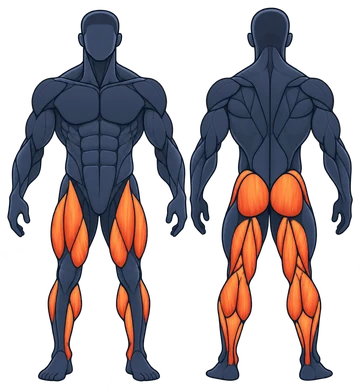
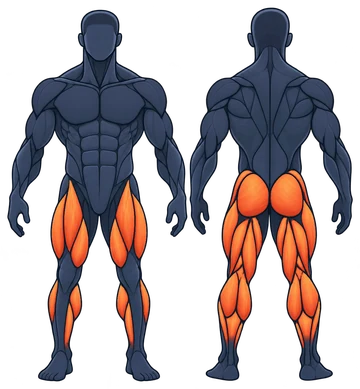
Day figures: two rounds of anatomy and rendering review
- The strip down the side of the torso is the lat seen from the front
  (Pull, Upper), not serratus; the teres lens under the rear delt joins the
  rotator cuff; the outer back thigh counts as quads on Legs.
- Calves stop where they narrow into the Achilles and ankle tendons, fading
  through deep red instead of running onto the heel.
- Fibres follow the muscle: trapezius from spine to shoulder, gluteus maximus
  down and out, abs and erectors vertical (and the streak rotation no longer
  comes out mirrored); the artist's own shading carries through.
- Edges stay crisp: no navy specks at outline junctions, no brown rims, no
  dotted seam where the biceps meets the triceps, no warm fringe left where
  Push's orange was removed. The nape groove and the shadowed groin slivers
  stay navy.

Claude-Session: https://claude.ai/code/session_01FVnPUDYaPCRVKb2WTVKYVF

diff --git a/design/day-figures/derive.py b/design/day-figures/derive.py
@@ -21,9 +21,12 @@ drawing with that day's muscles painted instead, so all the figures are one piec
   4. A day. Its panels are painted orange on the blank figure. A panel Push already painted keeps
      the supplied pixels exactly. Any other is shaded as the supplied orange panels are (a fit to
      them: lightest in the middle and towards the top, darker at the lower edge, with fine fibre
-     streaks along the panel's long axis), mapped through the supplied orange's own colours. The
-     outline is kept: an edge pixel mixes the outline colour and the new fill in the proportion the
-     original mixed outline and navy.
+     streaks along the panel's long axis, and the artist's own shading of the navy panel carried
+     through), mapped through the supplied orange's own colours. The outline is kept: an edge
+     pixel mixes the outline colour and the new fill in the proportion the original mixed outline
+     and navy, weighted towards the outline so the edge stays crisp. A faint stroke inside a panel
+     darkens the orange instead of cutting it, and a few-pixel navy speck left where outlines meet
+     takes the outline colour.
 
 Nothing is generated or traced from anywhere else; a day shows exactly the panels listed for it.
 Needs Pillow, numpy and scipy.
@@ -46,6 +49,7 @@ GAP = 2
 EDGE = 2
 MIN_PANEL = 60
 OUTLINE_RGB = np.array([8.0, 18.0, 33.0])
+MASTER_WIDTH = 1254
 
 # Points (x, y) on the 1254 x 1254 master inside each muscle's panels: the front figure is left of
 # x = 627, the back figure right of it. Left and right sides are listed separately.
@@ -58,16 +62,23 @@ MUSCLES: dict[str, list[tuple[int, int]]] = {
     "biceps": [(207, 383), (520, 383)],
     "forearms (front)": [(131, 503), (166, 535), (172, 486), (106, 547), (132, 583), (595, 502), (567, 535), (555, 487), (598, 584), (620, 549)],
     "rectus abdominis": [(333, 401), (396, 401), (336, 445), (393, 445), (341, 491), (394, 491), (367, 578)],
-    "serratus anterior": [(286, 454), (441, 454), (257, 392), (472, 392), (256, 415), (472, 415), (240, 406), (487, 407)],
+    "serratus anterior": [(286, 454), (441, 454), (257, 392), (472, 392), (256, 415), (472, 415)],
+    # The narrow strip down the side of the torso from the armpit, outside the serratus.
+    "latissimus dorsi (front)": [(240, 406), (487, 407)],
     "external obliques (front)": [(286, 527), (449, 527)],
-    "hip flexors and adductors": [(259, 580), (475, 580), (319, 596), (307, 609), (414, 595), (428, 605), (328, 667), (348, 694), (407, 667), (387, 705)],
+    # The tensor fasciae latae on the outer hip and the long adductor strips of the inner thigh.
+    # The four slivers at the groin are in deep shadow and too small to paint cleanly.
+    "hip flexors and adductors": [(259, 580), (475, 580), (328, 667), (348, 694), (407, 667), (387, 705)],
     "quadriceps": [(283, 676), (241, 714), (309, 768), (451, 676), (493, 714), (425, 768)],
     "calves (front)": [(223, 937), (295, 938), (271, 1027), (510, 936), (439, 938), (462, 1027)],
     # Back figure
-    "trapezius": [(861, 251), (923, 251), (892, 186), (810, 255), (981, 255)],
-    "mid and lower trapezius": [(860, 364), (931, 364)],
+    # Both halves and the small pieces at the shoulder; the groove at the nape between them stays a recess.
+    "trapezius": [(861, 251), (923, 251), (810, 255), (981, 255)],
+    "lower trapezius": [(860, 364), (931, 364)],
     "rear deltoid": [(745, 285), (1045, 285)],
-    "rotator cuff and teres": [(828, 300), (963, 300), (798, 300), (993, 300), (795, 339), (996, 339)],
+    # Infraspinatus and teres over the shoulder blade, and the teres lens under the rear deltoid
+    # that Push leaves navy (neither deltoid nor triceps).
+    "rotator cuff and teres": [(828, 300), (963, 300), (798, 300), (993, 300), (795, 339), (996, 339), (739, 325), (1048, 325)],
     "latissimus dorsi": [(820, 420), (971, 420)],
     "erector spinae": [(872, 500), (917, 500)],
     "external obliques (back)": [(815, 504), (982, 505)],
@@ -75,27 +86,45 @@ MUSCLES: dict[str, list[tuple[int, int]]] = {
     "forearms (back)": [(669, 486), (685, 580), (1124, 487), (1114, 583)],
     "gluteus medius": [(801, 567), (991, 566)],
     "gluteus maximus": [(845, 611), (951, 611)],
+    # The outer thigh from behind: vastus lateralis under the iliotibial band.
+    "quadriceps (back)": [(769, 707), (1015, 706)],
     "hamstrings": [(799, 754), (835, 790), (859, 729), (802, 821), (995, 754), (959, 790), (934, 729), (991, 822)],
     "calves (back)": [(773, 921), (816, 925), (782, 1036), (754, 1010), (790, 1061), (976, 934), (1017, 915), (1010, 1036), (1038, 1010), (990, 1040)],
 }
 
-# The back forearm's panel runs on into the hand with no line at the wrist: it stops at the wrist.
+# The back forearm's panel runs on into the hand: it stops at the wrist, fading over FADE px.
 LIMITS: dict[str, int] = {"forearms (back)": 612}
+FADE = 6
+# A calf panel that narrows into the Achilles or an ankle tendon (runs on TAPER_TAIL px or more
+# past where it is half as wide as at its widest) stops there, fading over TAPER_FADE px. A
+# teardrop head that ends at its own outline is left whole.
+TAPERED = {"calves (back)", "calves (front)"}
+TAPER_WIDTH = 0.5
+TAPER_TAIL = 20
+TAPER_FADE = 28
 
-# What the supplied Push master paints, so a check can confirm the panels are read correctly.
+# Fibre direction where the panel's long axis is not it, for the figure's left-hand panels
+# (mirrored on the right): the trapezius runs from the spine out to the shoulder, the gluteus
+# maximus down and out from the sacrum, the rectus abdominis and erectors straight up and down.
+FIBRES: dict[str, tuple[float, float]] = {"trapezius": (-1.0, 0.45), "gluteus maximus": (-0.82, 0.57), "rectus abdominis": (0.0, 1.0), "erector spinae": (0.0, 1.0)}
+# Each figure's midline on the master, for mirroring.
+MIDLINES = (363, 892)
+
+# What the supplied Push master paints: these panels keep the supplied pixels on any day that shows
+# them, and the blank figure repaints them navy.
 PUSH = ["front deltoid", "pectorals", "triceps (front)", "rear deltoid", "triceps (back)"]
 
 # Each day's muscles, from the words in client/src/lib/dayFigures.ts.
 DAYS: dict[str, list[str]] = {
     # Lats · traps and mid-back · rear delts · biceps
-    "pull": ["latissimus dorsi", "trapezius", "upper trapezius (front)", "mid and lower trapezius", "rotator cuff and teres", "rear deltoid", "biceps"],
+    "pull": ["latissimus dorsi", "latissimus dorsi (front)", "trapezius", "upper trapezius (front)", "lower trapezius", "rotator cuff and teres", "rear deltoid", "biceps"],
     # Quads · glutes · hamstrings · calves
     # (Lower trains these too, and Home shows it this figure.)
-    "legs": ["quadriceps", "gluteus maximus", "gluteus medius", "hamstrings", "calves (front)", "calves (back)"],
+    "legs": ["quadriceps", "quadriceps (back)", "gluteus maximus", "gluteus medius", "hamstrings", "calves (front)", "calves (back)"],
     # Chest · shoulders · arms · upper back · abs
-    "upper": ["pectorals", "front deltoid", "rear deltoid", "triceps (front)", "triceps (back)", "biceps", "trapezius", "upper trapezius (front)", "mid and lower trapezius", "rotator cuff and teres", "latissimus dorsi", "rectus abdominis"],
+    "upper": ["pectorals", "front deltoid", "rear deltoid", "triceps (front)", "triceps (back)", "biceps", "trapezius", "upper trapezius (front)", "lower trapezius", "rotator cuff and teres", "latissimus dorsi", "latissimus dorsi (front)", "rectus abdominis"],
     # Obliques and core · hips · glutes · posterior chain · shoulder stabilisation
-    "sport-transfer": ["external obliques (front)", "external obliques (back)", "rectus abdominis", "hip flexors and adductors", "gluteus medius", "gluteus maximus", "erector spinae", "hamstrings", "rotator cuff and teres", "mid and lower trapezius", "serratus anterior"],
+    "sport-transfer": ["external obliques (front)", "external obliques (back)", "rectus abdominis", "hip flexors and adductors", "gluteus medius", "gluteus maximus", "erector spinae", "hamstrings", "rotator cuff and teres", "lower trapezius", "serratus anterior"],
     # Chest · back · shoulders · arms · core · legs: every listed muscle but the forearms
     "full-body": [name for name in MUSCLES if not name.startswith("forearms")],
 }
@@ -131,6 +160,7 @@ class Figure:
         self.full = np.where(alpha > 0, lab[iy, ix], 0)
         self.band = (alpha > 0) & (distance <= GAP + EDGE)
         self.panels = {name: self.panels_at(name, points) for name, points in MUSCLES.items()}
+        self.supplied = {panel for name in PUSH for panel in self.panels[name]}
         self.ramps()
 
     def panels_at(self, name: str, points: list[tuple[int, int]]) -> set[int]:
@@ -178,17 +208,20 @@ class Figure:
         return depth, height[:, None] * np.ones((1, core.shape[1]))
 
     @staticmethod
-    def fibres(core: np.ndarray, seed: int) -> np.ndarray:
-        """Streaks along the panel's long axis, unit spread, over the given window."""
-        ys, xs = np.where(core)
-        cov = np.cov(np.vstack([xs, ys]))
-        vals, vecs = np.linalg.eigh(cov)
-        angle = np.degrees(np.arctan2(vecs[1, 1], vecs[0, 1]))
+    def fibres(core: np.ndarray, seed: int, direction: tuple[float, float] | None = None) -> np.ndarray:
+        """Fine streaks along the panel's long axis (or the given direction), unit spread, over the
+        given window."""
+        if direction is None:
+            ys, xs = np.where(core)
+            vals, vecs = np.linalg.eigh(np.cov(np.vstack([xs, ys])))
+            direction = (vecs[0, 1], vecs[1, 1])
+        angle = np.degrees(np.arctan2(direction[1], direction[0]))
         h, w = core.shape
         size = int(np.hypot(h, w)) + 8
         noise = np.random.default_rng(seed).standard_normal((size, size))
-        streaks = ndi.gaussian_filter(noise, sigma=(1.0, 14.0))
-        streaks = ndi.rotate(streaks, angle, reshape=False, order=1)
+        streaks = ndi.gaussian_filter(noise, sigma=(0.7, 10.0))
+        # The angle is measured with y pointing down; ndi.rotate turns counter-clockwise on screen.
+        streaks = ndi.rotate(streaks, -angle, reshape=False, order=1)
         top, left = (size - h) // 2, (size - w) // 2
         out = streaks[top:top + h, left:left + w]
         return out / max(out[core].std(), 1e-6)
@@ -199,12 +232,17 @@ class Figure:
         for name in PUSH:
             for panel in self.panels[name]:
                 self.paint(out, panel, navy=True)
-        # Orange anti-aliasing left on the silhouette's soft edge takes the outline colour.
-        stray = (out[..., 0] > out[..., 2] + 30) & (self.full > 0)
-        out[..., :3][stray] = OUTLINE_RGB
+        # Warm anti-aliasing left around Push's panels: on an outline or the silhouette's soft edge
+        # it takes the outline colour; between two panels (the front triceps and biceps, where
+        # there was no line) it takes a shaded navy, so no dotted seam is left.
+        near = ndi.binary_dilation(np.isin(self.full, list(self.supplied)), structure=disk(4))
+        stray = near & (out[..., 0] > out[..., 2] + 3) & (self.full > 0)
+        edge = stray & ((self.rgba[..., 3] < 250) | (self.lum < 45))
+        out[..., :3][edge] = OUTLINE_RGB
+        out[..., :3][stray & ~edge] = self.navy_ramp(np.full((stray & ~edge).sum(), 52.0))
         return out
 
-    def paint(self, out: np.ndarray, panel: int, navy: bool = False, seed: int = 0, max_y: int | None = None) -> None:
+    def paint(self, out: np.ndarray, panel: int, navy: bool = False, seed: int = 0, max_y: int | None = None, fade: int = FADE, direction: tuple[float, float] | None = None, beside_supplied: np.ndarray | None = None) -> None:
         owned = (self.full == panel) & self.band
         if max_y is not None:
             owned[max_y + 1:] = False
@@ -215,10 +253,14 @@ class Figure:
         depth, height = self.geometry(core)
         if navy:
             smooth = ndi.gaussian_filter(np.where(core, src, fill), 3)
-            target = 66 + 6 - 14 * height + 0.25 * (src - smooth)
+            target = 66 + 6 - 14 * height + 6 * (np.sqrt(depth) - 0.5) + 0.25 * (src - smooth)
             ramp = self.navy_ramp
         else:
-            base = -3 + 42 * np.sqrt(depth) - 48 * height + 4 * self.fibres(core, seed)
+            # The artist's own shading of the navy panel carries through, so a shadow (under the
+            # glutes, behind the knee) stays a shadow.
+            smooth = ndi.gaussian_filter(np.where(core, src, fill), 4)
+            drawn = 1.2 * (smooth - fill) + 0.6 * (src - smooth)
+            base = -3 + 42 * np.sqrt(depth) - 48 * height + drawn + 2.5 * self.fibres(core, seed, direction)
             # Spread as the supplied orange is spread: rank within the panel, then the orange's levels.
             ranks = np.argsort(np.argsort(base[core]))
             q = (ranks + 0.5) / len(ranks)
@@ -234,22 +276,122 @@ class Figure:
         ny = np.clip(iy[gy, gx] - box[0].start, 0, core.shape[0] - 1)
         nx = np.clip(ix[gy, gx] - box[1].start, 0, core.shape[1] - 1)
         lum = target[ny, nx]
+        keep = None
+        if max_y is not None:
+            # Over the last `fade` rows the orange deepens and then gives way to what was there.
+            keep = np.clip((max_y - gy) / fade, 0, 1)
+            lum = lum * (0.7 + 0.3 * keep)
         dark = OUTLINE_LUMINANCE * 0.6
         mix = np.clip((self.lum[gy, gx] - dark) / max(fill - dark, 1), 0, 1)
-        mix[core[rows, cols]] = 1.0
-        out[gy, gx, :3] = OUTLINE_RGB * (1 - mix[:, None]) + ramp(lum) * mix[:, None]
+        rim = ~core[rows, cols]
+        # Weighted towards the outline, so a rim reads as a crisp dark edge rather than a brown fringe.
+        mix = mix ** 1.6
+        mix[~rim] = 1.0
+        if not navy:
+            # A faint stroke inside the panel (no other panel or background within 9 px, more
+            # than a drawn line between two panels is wide) is the artist's shading, not a
+            # boundary: it darkens the orange rather than cutting it.
+            reach = 9
+            window = (slice(max(box[0].start - reach, 0), box[0].stop + reach), slice(max(box[1].start - reach, 0), box[1].stop + reach))
+            other = ((self.core[window] > 0) & (self.core[window] != panel)) | (self.rgba[window][..., 3] == 0)
+            other = ndi.binary_dilation(other, structure=disk(reach))
+            stroke = rim & ~other[gy - window[0].start, gx - window[1].start] & (self.lum[gy, gx] >= 24)
+            mix[stroke] = np.maximum(mix[stroke], 0.6)
+        if navy:
+            painted = OUTLINE_RGB * (1 - mix[:, None]) + ramp(lum) * mix[:, None]
+        else:
+            # Towards the outline the orange deepens to red before it meets the line, as the
+            # supplied panels' edges do, rather than greying through a straight mix.
+            painted = OUTLINE_RGB * (1 - mix[:, None]) + ramp(lum * (0.55 + 0.45 * mix)) * mix[:, None]
+        if not navy:
+            # Where the original drew no line, only Push's orange meeting navy (the front triceps
+            # and biceps): beside a supplied panel shown today the seam is the supplied pixels, as
+            # drawn; beside a navy one it stays the blank figure's.
+            src_rgb = self.rgba[gy, gx, :3]
+            seam = rim & (src_rgb[:, 0] > src_rgb[:, 2] + 10)
+            if beside_supplied is not None:
+                # Both sides orange, and no line drawn between them: the fill runs on up to the
+                # supplied panel, as Push's own orange panels meet.
+                shown = rim & beside_supplied[gy, gx] & (self.lum[gy, gx] >= 30)
+                painted[shown] = ramp(lum[shown])
+                seam &= ~beside_supplied[gy, gx]
+            painted[seam] = out[gy[seam], gx[seam], :3]
+        if keep is not None:
+            painted = out[gy, gx, :3] * (1 - keep[:, None]) + painted * keep[:, None]
+        out[gy, gx, :3] = painted
 
     def day(self, muscles: list[str], blank: np.ndarray) -> np.ndarray:
         out = blank.copy()
-        supplied = {panel for name in PUSH for panel in self.panels[name]}
+        supplied = self.supplied
+        shown = {panel for name in muscles for panel in self.panels[name] & supplied}
+        beside_supplied = ndi.binary_dilation(np.isin(self.full, list(shown)), structure=disk(3)) if shown else None
         # The supplied panels first, exactly as drawn, so a painted neighbour's rim is laid over them.
         for name in muscles:
             for panel in sorted(self.panels[name] & supplied):
                 owned = self.full == panel
                 out[owned] = self.rgba[owned]
+        painted_cores = np.zeros(self.core.shape, bool)
         for name in muscles:
             for panel in sorted(self.panels[name] - supplied):
-                self.paint(out, panel, seed=panel, max_y=LIMITS.get(name))
+                painted_cores |= self.core == panel
+                end = LIMITS.get(name)
+                fade = FADE
+                if name in TAPERED:
+                    end, fade = self.taper(panel), TAPER_FADE
+                self.paint(out, panel, seed=panel, max_y=end, fade=fade, direction=self.direction(name, panel), beside_supplied=beside_supplied)
+        if shown:
+            self.join(out, shown, painted_cores)
+        return self.clean(out)
+
+    def join(self, out: np.ndarray, shown: set[int], painted_cores: np.ndarray) -> None:
+        """A supplied panel's edge that faded from orange to navy where the artist drew no line
+        (the front triceps beside the biceps) is filled from the orange around it once the
+        neighbour is painted too, so the two meet without a dotted seam."""
+        edge = np.isin(self.full, list(shown)) & ndi.binary_dilation(painted_cores, structure=disk(3))
+        rgb = out[..., :3]
+        edge &= (self.lum >= 30) & ~(rgb[..., 0] > rgb[..., 2] + 120)
+        if not edge.any():
+            return
+        solid = (rgb[..., 0] > rgb[..., 2] + 120) & ~edge
+        weight = ndi.gaussian_filter(solid.astype(float), 2)
+        for c in range(3):
+            smooth = ndi.gaussian_filter(np.where(solid, rgb[..., c], 0.0), 2)
+            rgb[..., c][edge & (weight > 0.05)] = (smooth / np.maximum(weight, 1e-6))[edge & (weight > 0.05)]
+
+    def taper(self, panel: int) -> int | None:
+        """Where a tapered panel's paint ends: TAPER_FADE rows past the row where, below its widest
+        row, it first narrows to TAPER_WIDTH of that width. None if it ends at its own outline."""
+        widths = (self.core == panel).sum(axis=1)
+        rows = np.where(widths > 0)[0]
+        widest = rows[np.argmax(widths[rows])]
+        narrow = [row for row in rows if row > widest and widths[row] < TAPER_WIDTH * widths[widest]]
+        if not narrow or rows.max() - narrow[0] < TAPER_TAIL:
+            return None
+        return int(narrow[0]) + TAPER_FADE
+
+    def direction(self, name: str, panel: int) -> tuple[float, float] | None:
+        if name not in FIBRES:
+            return None
+        dx, dy = FIBRES[name]
+        x = np.where(self.core == panel)[1].mean()
+        midline = MIDLINES[0] if x < MASTER_WIDTH / 2 else MIDLINES[1]
+        return (dx if x < midline else -dx, dy)
+
+    @staticmethod
+    def clean(out: np.ndarray) -> np.ndarray:
+        """Navy specks of a few pixels left where three outlines meet inside orange take the
+        outline colour."""
+        rgb = out[..., :3]
+        lum = luminance(rgb)
+        navy = (rgb[..., 2] > rgb[..., 0] + 10) & (lum > 35) & (out[..., 3] > 200)
+        orange = rgb[..., 0] > rgb[..., 2] + 50
+        specks, count = ndi.label(navy)
+        sizes = np.bincount(specks.ravel())
+        for speck in np.where(sizes[1:] <= 20)[0] + 1:
+            mask = specks == speck
+            ring = ndi.binary_dilation(mask, iterations=2) & ~mask & (out[..., 3] > 200)
+            if ring.any() and orange[ring].mean() >= 0.3 and navy[ring].mean() < 0.2:
+                rgb[mask] = OUTLINE_RGB
         return out
 
 

diff --git a/design/day-figures/README.md b/design/day-figures/README.md
@@ -9,7 +9,7 @@ The artwork Home's hero shows for the next workout: a front and a back figure si
 | Legs | derived | quads, glutes, hamstrings, calves | in use |
 | Upper | derived | chest, shoulders, arms, upper back, abs | in use |
 | Sport Transfer | derived | obliques and core, hips, glutes, posterior chain, shoulder stabilisation | in use |
-| Full Body | derived | chest, back, shoulders, arms, core, legs (every listed muscle but the forearms) | in use |
+| Full Body | derived | chest, back, shoulders, arms, core, legs (every muscle in `derive.py` but the forearms) | in use |
 | Lower | Legs' figure | quads, glutes, hamstrings, calves | in use |
 
 ## Derived figures
@@ -25,8 +25,25 @@ Only Push was supplied. Every other day is the Push master itself with that day'
    - Outlines and shadows stay as drawn.
 
 Exceptions:
-- The back forearm has no line at the wrist, so its paint stops at the wrist.
-- Lower trains the Legs muscles (`client/src/lib/splitStackAnalysis.ts`), so Home shows it the Legs figure rather than a copy.
+- **Calves.** A calf panel that narrows into the Achilles or an ankle tendon deepens to red and fades out where it is half its widest. The teardrop heads end at their own outlines.
+- **Back forearm.** It has no line at the wrist, so its paint fades out at the wrist.
+- **Fibres.** They run along each panel's long axis, except:
+  - the trapezius: from the spine to the shoulder;
+  - the gluteus maximus: down and out;
+  - the abs and erectors: vertical.
+- **Lower.** It trains the Legs muscles (`client/src/lib/splitStackAnalysis.ts`), so Home shows it the Legs figure rather than a copy.
+
+Mapping choices, from two rounds of independent anatomy and rendering review:
+- **Lats.** The strip down the side of the torso from the armpit is the lat seen from the front, not serratus.
+- **Teres.** The lens under the rear deltoid, which Push leaves navy, is teres and counts with the rotator cuff.
+- **Outer back thigh.** It is the vastus lateralis under the iliotibial band, so it counts as quads.
+- **Front biceps.** It is the thin inner crescent. Push paints the rest of the front upper arm as triceps, and that drawing is kept.
+- **Rear delts.** They are Push's whole back-view deltoid cap.
+- **Left navy:**
+  - the nape groove;
+  - the knees, shins and hands;
+  - the forearms on Full Body;
+  - the small shadowed slivers at the groin and behind the inner thigh, too small to paint cleanly.
 
 ## Building
 
